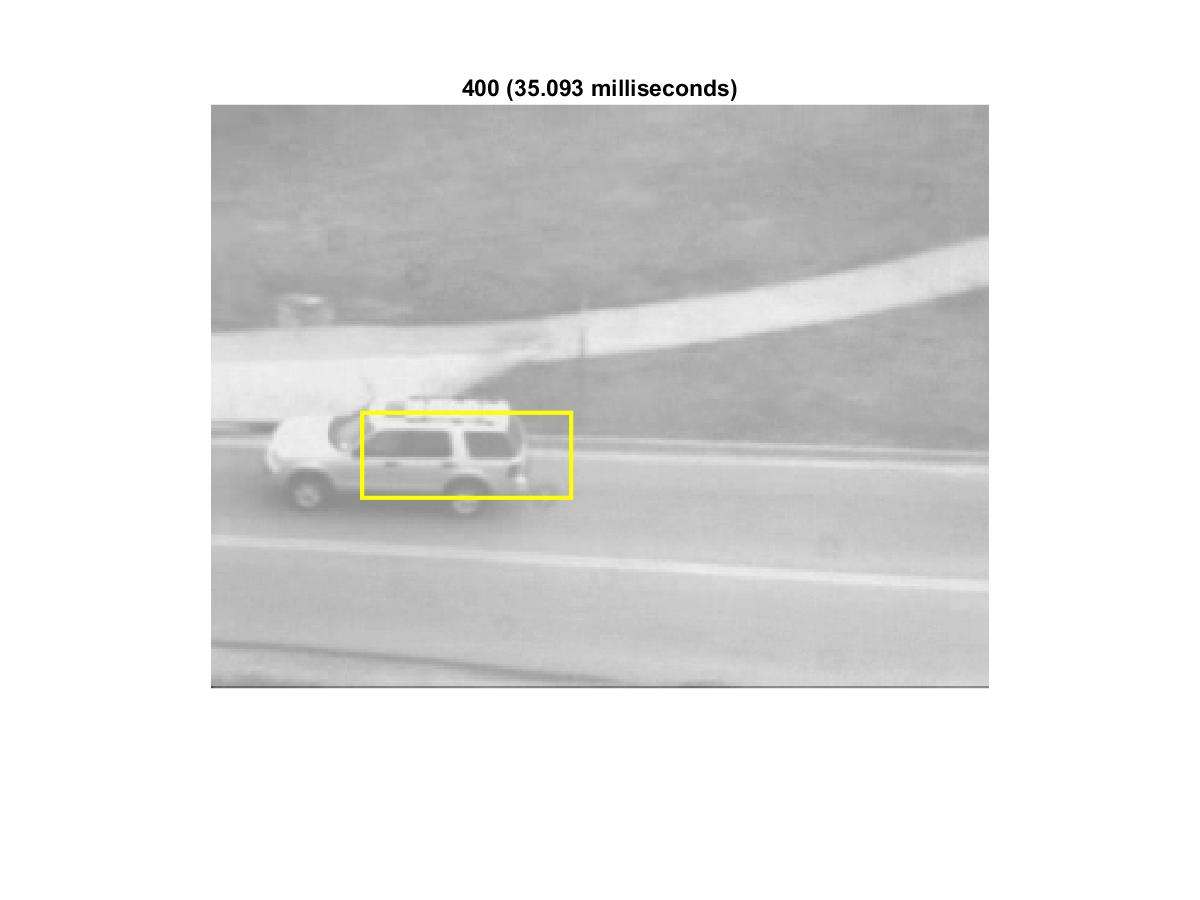
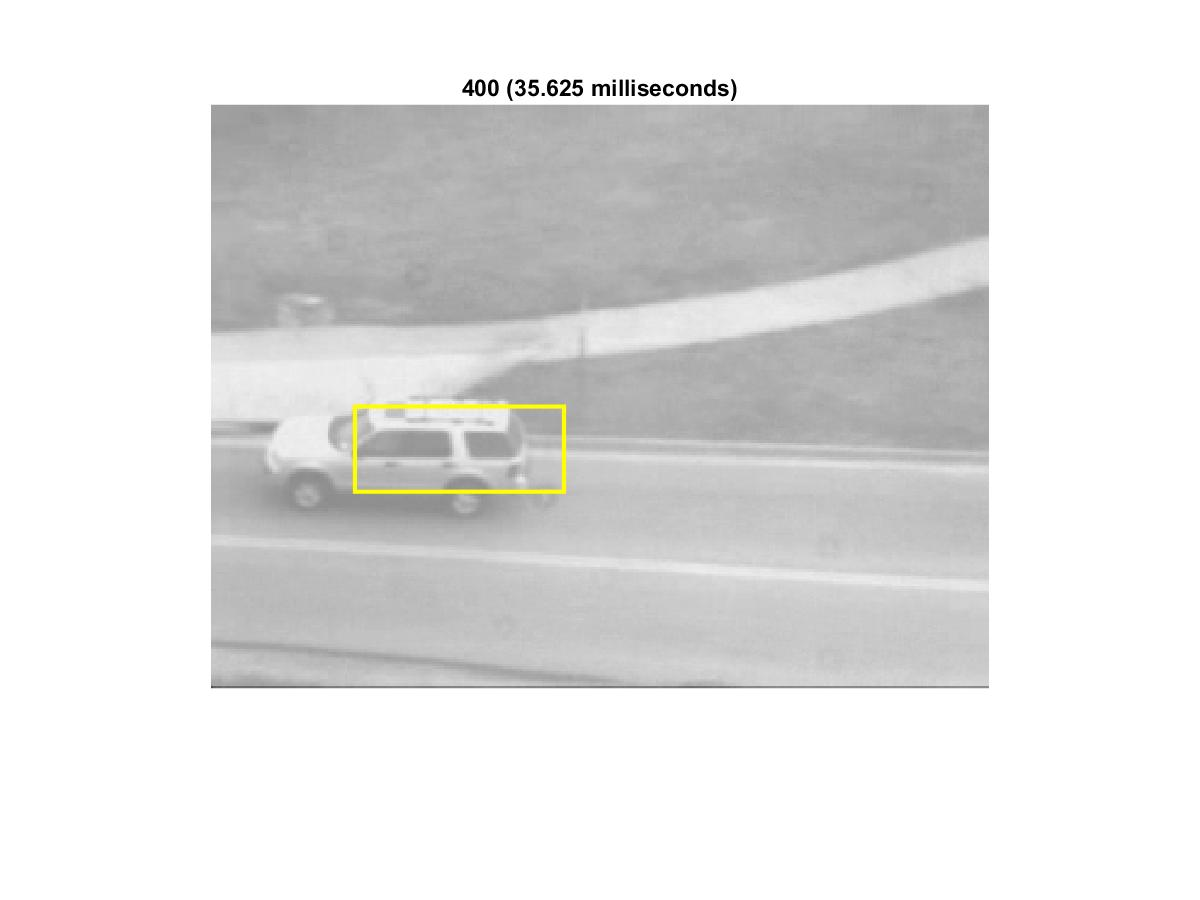
HW 3: Added inverse compositional algorithm to Q 1.2

Changed region(s): [[0.2775, 0.4356, 0.4933, 0.56], [0.4625, 0.0933, 0.4933, 0.1244]]

diff --git a/Homework 3/My Code/code/LucasKanade.m b/Homework 3/My Code/code/LucasKanade.m
@@ -1,4 +1,6 @@
 function [u, v] = LucasKanade(It, It1, rect)
+
+% Convert input images to double
 It = im2double(It);
 It1 = im2double(It1);
 
@@ -7,27 +9,110 @@ tol = 0.1;
 p = [0 0]';
 deltap = 2 * [tol tol]';
 
-% Isolate the template that we want to track
+% Compute the template that we want to track
 [X, Y] = meshgrid(rect(1) : rect(3), rect(2) : rect(4));
 T = interp2(It, X, Y);
 
+%% Implementation of normal Lucas-Kanade algorithm according to the 
+% formulation I derived in the writeup
+
+% % Lucas-Kanade iterative algorithm
+% while any(abs(deltap) > tol)
+%     
+%     % Isolate current part of the image we want to compare with template
+%     [X, Y] = meshgrid((rect(1) : rect(3)) + p(1), ...
+%         (rect(2) : rect(4)) + p(2));
+%     I = interp2(It1, X, Y);
+% 
+%     % Calculate the gradient
+%     [Ix, Iy] = gradient(I);
+%     
+%     % Calculate delta p
+%     A = [Ix(:) Iy(:)]' * [Ix(:) Iy(:)];
+%     b = -[Ix(:) Iy(:)]' * (I(:) - T(:));
+%     deltap = A \ b;
+%     
+%     % Update p
+%     p = p + deltap;
+%         
+% end
+% 
+% % Update u and v
+% u = p(1);
+% v = p(2);
+
+%% Implementation of normal Lucas-Kanade algorithm according to the 
+% steps in Ref. [1] of PDF description
+
+% % Caclulate the gradient
+% [It1x, It1y] = gradient(It1);
+% 
+% % Lucas-Kanade iterative algorithm
+% while norm(deltap) >= tol
+%     
+%     % (1) Warp I (select the region of interest)
+%     [X, Y] = meshgrid((rect(1) : rect(3)) + p(1), ...
+%         (rect(2) : rect(4)) + p(2));
+%     I = interp2(It1, X, Y);
+% 
+%     % (2) Compute the error image
+%     D = T - I;
+%     
+%     % (3) Warp the gradients (select the region of interest)
+%     Ix = interp2(It1x, X, Y);
+%     Iy = interp2(It1y, X, Y);
+%     
+%     % (4) Evaluate the Jacobian, (5) compute the steepest descent images
+%     % and (6) Compute the Hessian matrix
+%     H = [Ix(:) Iy(:)]' * [Ix(:) Iy(:)];
+%     
+%     % (7) Compute right-hand side of the equation H * deltap = b
+%     b = [Ix(:) Iy(:)]' * D(:);
+%     
+%     % (8) Compute delta p
+%     deltap = H \ b;
+%     
+%     % (9) Update p
+%     p = p + deltap;
+% 
+% end
+% 
+% % Update u and v
+% u = p(1);
+% v = p(2);
+
+%% Implementation of Inverse Compositional Lucas-Kanade algorithm 
+% according to the steps in section 2.2 of Ref. [2] of PDF description
+
+% Caclulate the gradient
+[It1x, It1y] = gradient(It1);
+
+% (3) Evaluate the gradient of the template
+[Tx, Ty] = gradient(T);
+
+% (4) Evaluate the Jacobian, (5) steepest descent images of the template
+% and (6) Compute the Hessian matrix
+H = [Tx(:) Ty(:)]' * [Tx(:) Ty(:)];
+
 % Lucas-Kanade iterative algorithm
-while any(abs(deltap) > tol)
-    % Isolate current part of the image we want to compare with template
+while norm(deltap) >= tol
+
+    % (1) Warp I (select the region of interest)
     [X, Y] = meshgrid((rect(1) : rect(3)) + p(1), ...
         (rect(2) : rect(4)) + p(2));
     I = interp2(It1, X, Y);
 
-    % Calculate the gradient
-    [Ix, Iy] = gradient(I);
+    % (2) Compute the error image
+    D = I - T;
     
-    % Calculate delta p
-    A = [Ix(:) Iy(:)]' * [Ix(:) Iy(:)];
-    b = -[Ix(:) Iy(:)]' * (I(:) - T(:));
-    deltap = A \ b;
+    % (7) Compute right-hand side of the equation H * deltap = b
+    b = [Tx(:) Ty(:)]' * D(:);
     
-    % Update p
-    p = p + deltap;
+    % (8) Compute delta p
+    deltap = H \ b;
+    
+    % (9) Update warp
+    p = p - deltap;
 end
 
 % Update u and v
